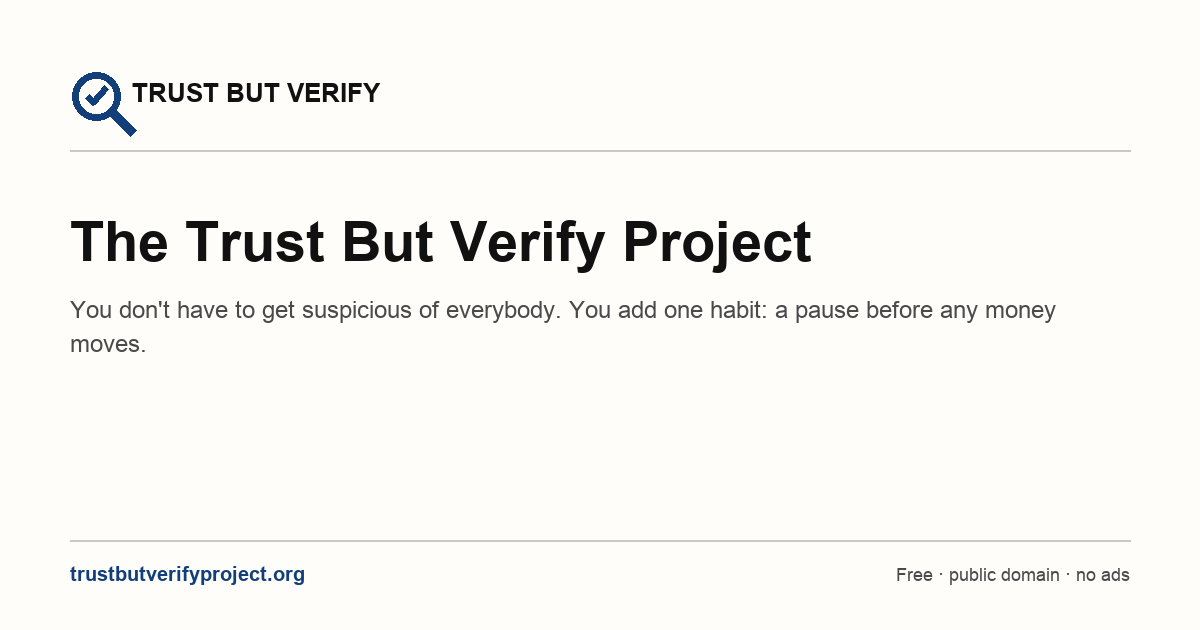
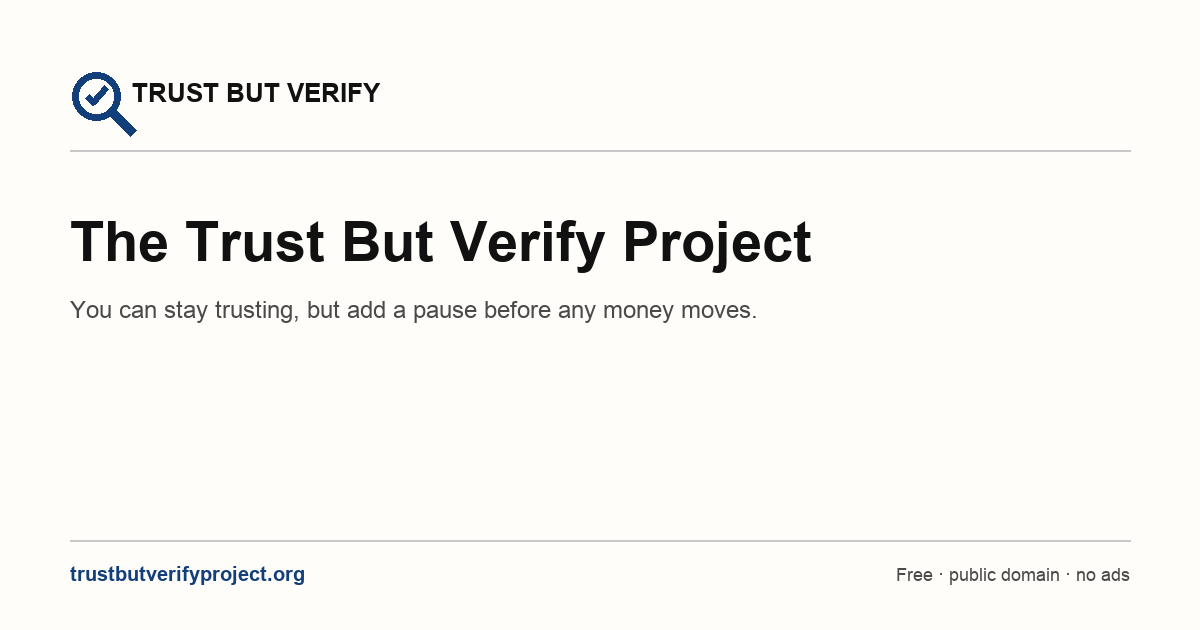
New home page tagline: "You can stay trusting, but add a pause."
Replaces "You don't have to get suspicious of everybody." — the new
line mirrors the site's own name structurally (trust, but verify ->
stay trusting, but add a pause), which the old line and every other
candidate considered didn't do. Removed the now-redundant "You add one
habit: a pause." line right after it, since the H1 covers that ground
itself. Updated the frontmatter description and regenerated the home
page's og:image share card to match.

Changed region(s): [[0.0925, 0.4825, 0.8942, 0.5127], [0.0617, 0.5429, 0.1233, 0.573]]

diff --git a/content/en/home.md b/content/en/home.md
@@ -1,13 +1,11 @@
 ---
 title: The Trust But Verify Project
 slug: /
-description: You don't have to get suspicious of everybody. You add one habit: a pause before any money moves.
+description: You can stay trusting, but add a pause before any money moves.
 lang: en
 ---
 
-# You don't have to get suspicious of everybody.
-
-You add one habit: a pause.
+# You can stay trusting, but add a pause.
 
 Scammers are not beating people because people are foolish. They are beating
 people because they are good at their jobs, and because they arrive when you are
